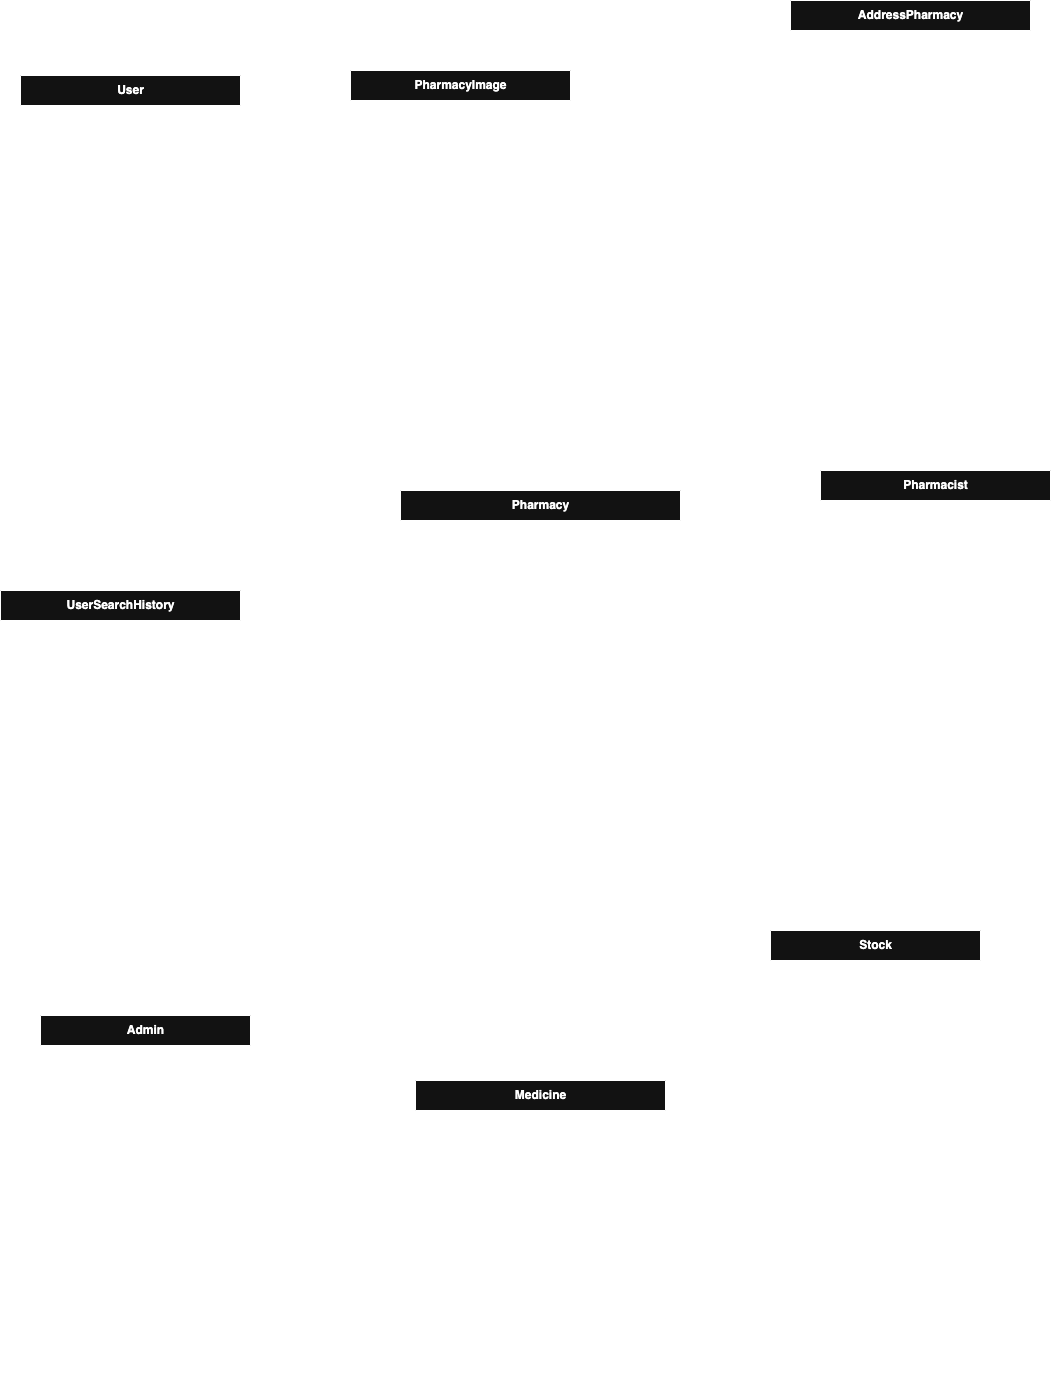
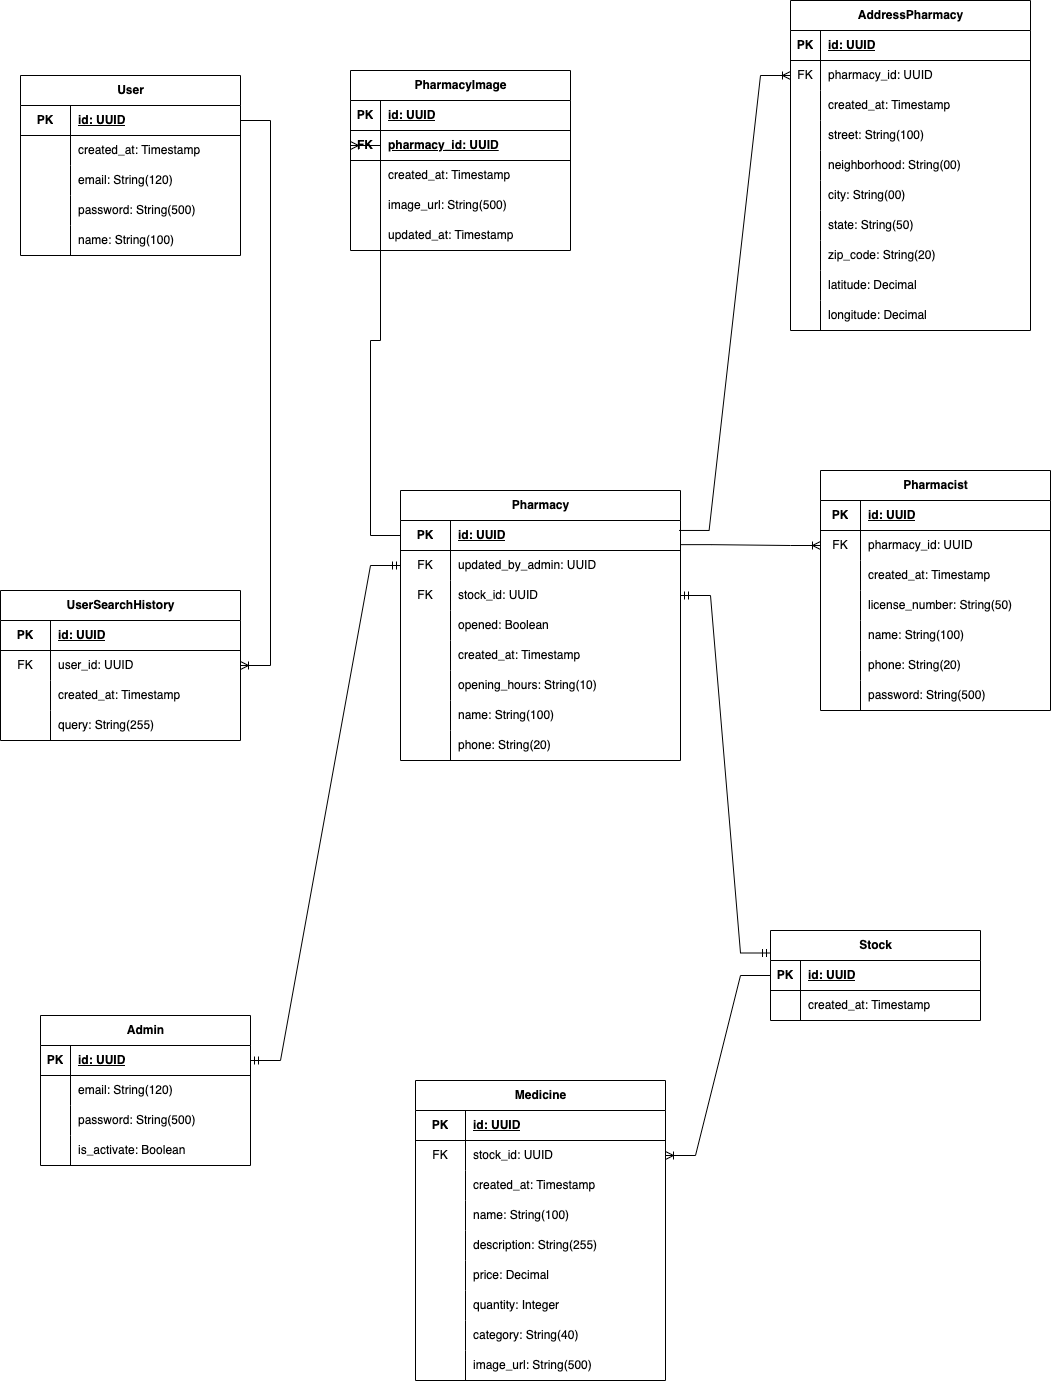
fix: remove fields on some columns

diff --git a/src/infra/models/pharmacy_models.py b/src/infra/models/pharmacy_models.py
@@ -39,9 +39,10 @@ class Pharmacist(SQLModel, table=True):
     email: str = Field(unique=True, max_length=120)
     phone: Optional[str] = Field(max_length=20)
     license_number: str = Field(max_length=50, unique=True)
-    pharmacy_id: str = Field(foreign_key="pharmacy.id")
 
+    pharmacy_id: str = Field(foreign_key="pharmacy.id")
     pharmacy: Optional["Pharmacy"] = Relationship(back_populates="pharmacists")
+
 
 class Pharmacy(SQLModel, table=True):
     id: str = Field(default_factory=lambda: str(uuid4()), primary_key=True)
@@ -51,13 +52,15 @@ class Pharmacy(SQLModel, table=True):
     opened: bool = Field(default=False)
     opening_hours: Optional[str] = Field(default=None)
     address_id: str = Field(foreign_key="addresspharmacy.id")
-    image_url: Optional[str] = Field(default=None)
+
+    pharmacy_images: List["PharmacyImage"] = Relationship(back_populates="pharmacy")
+
+    address: "AddressPharmacy" = Relationship(back_populates="pharmacies")
 
     stock_id: Optional[str] = Field(foreign_key="stock.id")
     stock: Optional["Stock"] = Relationship(back_populates="pharmacy")
 
     pharmacists: List["Pharmacist"] = Relationship(back_populates="pharmacy")
-
 
 class Stock(SQLModel, table=True):
     id: str = Field(default_factory=lambda: str(uuid4()), primary_key=True)

diff --git a/alembic/versions/418431b65286_add_list_pharmacy_images.py b/alembic/versions/418431b65286_add_list_pharmacy_images.py
@@ -1,0 +1,30 @@
+"""add list pharmacy images
+
+Revision ID: 418431b65286
+Revises: de0802062454
+Create Date: 2025-04-29 14:14:22.175431
+
+"""
+from typing import Sequence, Union
+
+from alembic import op
+import sqlalchemy as sa
+
+
+# revision identifiers, used by Alembic.
+revision: str = '418431b65286'
+down_revision: Union[str, None] = 'de0802062454'
+branch_labels: Union[str, Sequence[str], None] = None
+depends_on: Union[str, Sequence[str], None] = None
+
+
+def upgrade() -> None:
+    # ### commands auto generated by Alembic - please adjust! ###
+    op.drop_column('pharmacy', 'image_url')
+    # ### end Alembic commands ###
+
+
+def downgrade() -> None:
+    # ### commands auto generated by Alembic - please adjust! ###
+    op.add_column('pharmacy', sa.Column('image_url', sa.VARCHAR(), autoincrement=False, nullable=True))
+    # ### end Alembic commands ###

diff --git a/alembic/env.py b/alembic/env.py
@@ -5,9 +5,15 @@ from sqlalchemy import pool
 
 from alembic import context
 
-from sqlmodel import SQLModel
+from src.infra.models import SQLModel
+# from sqlmodel import SQLModel
 from src.infra.models import *
 
+
+import os
+import sys
+
+sys.path.append(os.path.abspath(os.path.join(os.path.dirname(__file__), '..')))
 
 # this is the Alembic Config object, which provides
 # access to the values within the .ini file in use.

diff --git a/src/infra/http/routes/admin/post.py b/src/infra/http/routes/admin/post.py
@@ -14,9 +14,7 @@ app = APIRouter(prefix="/admin")
 async def regist_pharmacy(
     pharmacy: Pharmacy, address: AddressPharmacy, pharmacist: Pharmacist
 ):
+    print("#"*50)
     response = AdminRepository.regist_pharmacy(pharmacy, address, pharmacist)
     return JSONResponse(content=response, status_code=status.HTTP_201_CREATED)
 
-
-# @app.post("/pharmacist")
-# async def regist_pharmacist(pharmacist)

diff --git a/src/infra/models/__init__.py b/src/infra/models/__init__.py
@@ -1,8 +1,11 @@
-from .user_model import User
-from .pharmacy_models import (
-    Medicine,
-    Pharmacy,
-    PharmacyImage,
-    AddressPharmacy,
-    Pharmacist,
-)
+from .user_model import *
+from .pharmacy_models import *
+
+# from .user_model import User
+# from .pharmacy_models import (
+#     Medicine,
+#     Pharmacy,
+#     PharmacyImage,
+#     AddressPharmacy,
+#     Pharmacist,
+# )

diff --git a/main.py b/main.py
@@ -22,4 +22,4 @@ api.include_router(app_pharmacy)
 
 
 if __name__ == "__main__":
-    uvicorn.run(api, port=3435)
+    uvicorn.run(api, port=3435, reload=True)
